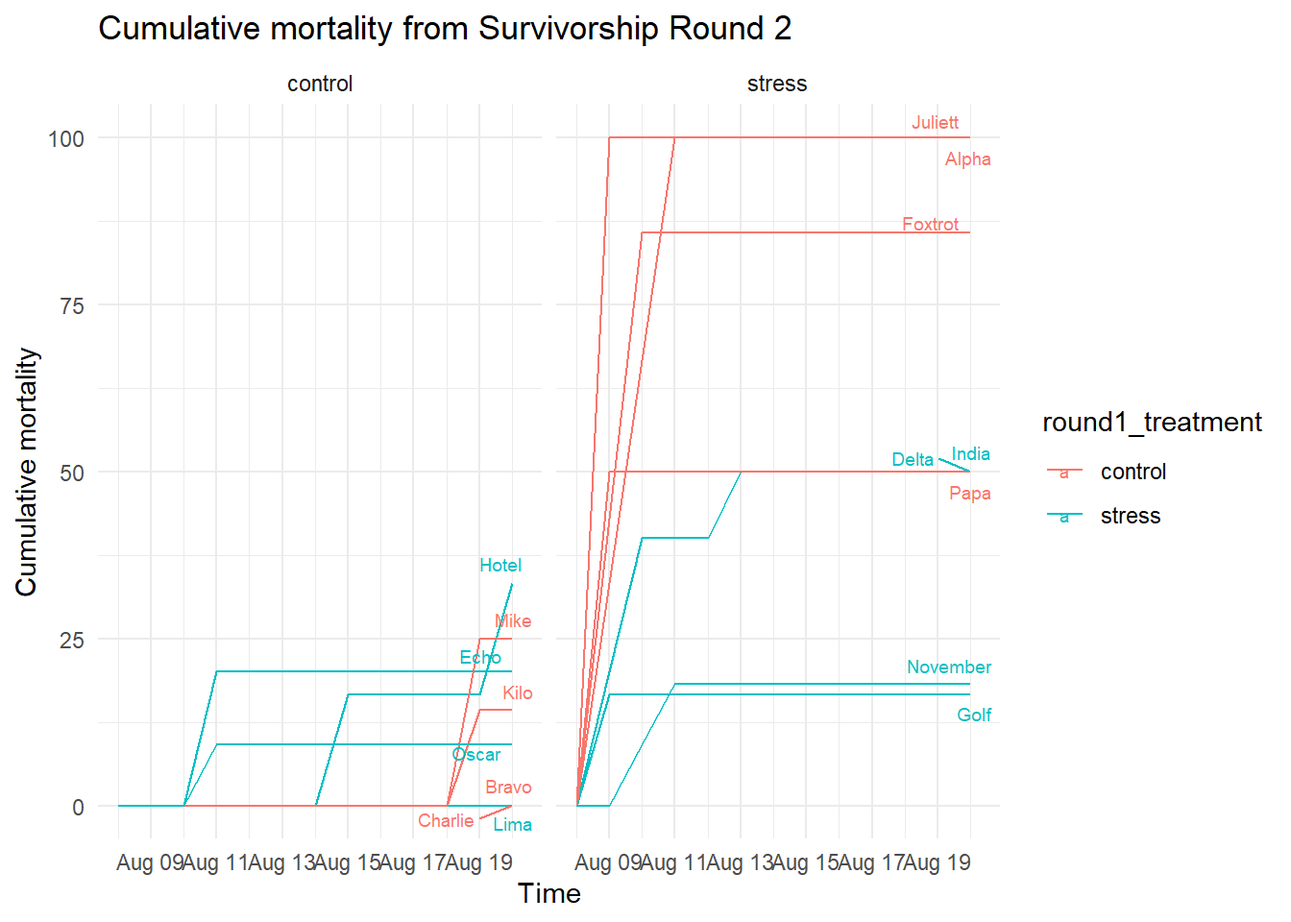
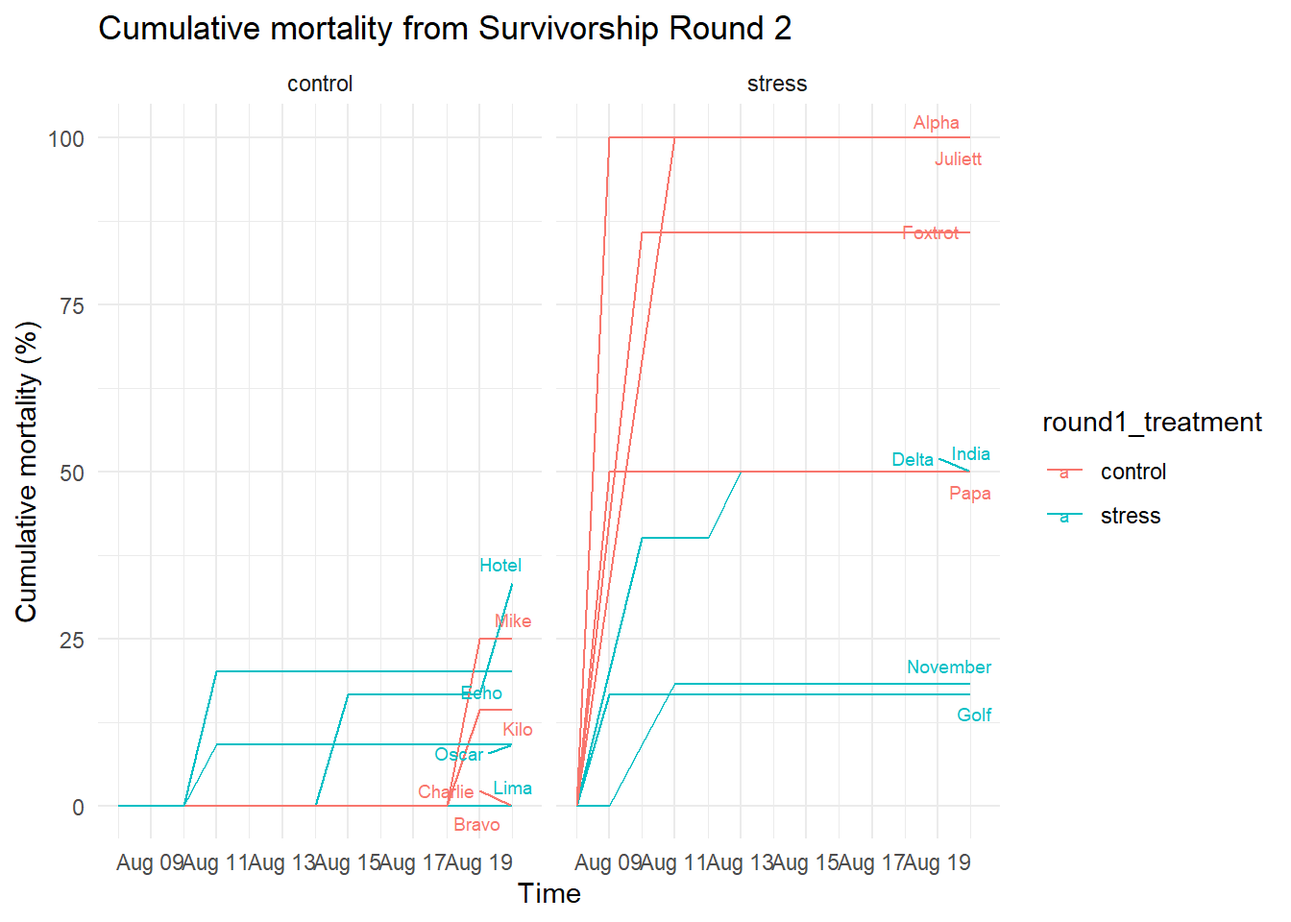
fix broken link, fold code chunk

diff --git a/docs/posts/projects/pacific_oyster/2024_08_09_diptrip_survivorship_round2.html b/docs/posts/projects/pacific_oyster/2024_08_09_diptrip_survivorship_round2.html
@@ -7,7 +7,7 @@
 <meta name="viewport" content="width=device-width, initial-scale=1.0, user-scalable=yes">
 
 <meta name="author" content="Kathleen Durkin">
-<meta name="dcterms.date" content="2024-08-21">
+<meta name="dcterms.date" content="2024-08-09">
 
 <title>Kathleen’s Lab Notebook - Dip/Trip Hardening, Survivorship Round 2</title>
 <style>
@@ -169,7 +169,7 @@ pre > code.sourceCode > span > a:first-child::before { text-decoration: underlin
       <div>
       <div class="quarto-title-meta-heading">Published</div>
       <div class="quarto-title-meta-contents">
-        <p class="date">August 21, 2024</p>
+        <p class="date">August 9, 2024</p>
       </div>
     </div>
     
@@ -196,8 +196,8 @@ pre > code.sourceCode > span > a:first-child::before { text-decoration: underlin
 
 
 
-<p>Second attempt at a survivorship test with my remaining hardened diploid and triploid oysters (see first survivorship test <a href="./2024_08_02_diptrip_survivorship_round2.qmd">here</a>). See all details and original data collection in physical lab notebook, digital copy of mortality and meta data <a href="https://docs.google.com/spreadsheets/d/1e0EcJ3Jrjq-a_IehlJsX7WaRoSG3tCUWKyWhY5yJfMs/edit?gid=0#gid=0">here</a>.</p>
-<p>As a reminder, I have diploid and triploid Pacific oysters that were hardened using 6 treatments of 35C for 4hours, over the course of 2 weeks. After 2 weeks of recovery they were brought back to FTR, acclimated, sampled, and used in a survivorship test of 42C Resazurin for 4hours. However, since I made the mistake of pooling all oysters in each treatment group, I compromised independence, making the results statistically meaningless. During this second attempt at a survivorship trial I’ll keep all individual oysters in separate containers, and I won’t be using Resazurin, since the ambient temp Resazurin groups in the first surivorship test still saw high mortality. For the purposes of this second survivorship test, survivorship round 1 will essentially be treated like an additional hardening treatment.</p>
+<p>Second attempt at a survivorship test with my remaining hardened diploid and triploid oysters (see first survivorship test <a href="../../../posts/projects/pacific_oyster/2024_08_02_diptrip_survivorship_round1.html">here</a>). See all details and original data collection in physical lab notebook, digital copy of mortality and meta data <a href="https://docs.google.com/spreadsheets/d/1e0EcJ3Jrjq-a_IehlJsX7WaRoSG3tCUWKyWhY5yJfMs/edit?gid=0#gid=0">here</a>.</p>
+<p>As a reminder, I have diploid and triploid Pacific oysters that were hardened using 6 treatments of 35C for 4hours, over the course of 2 weeks. After 2 weeks of recovery they were brought back to FTR, acclimated, sampled, and used in a survivorship test of 42C Resazurin for 4hours. However, since I made the mistake of pooling all oysters in each treatment group, I compromised independence, making the results statistically meaningless. During this second attempt at a survivorship trial I’ll keep all individual oysters in separate containers, and I won’t be using Resazurin, since the ambient temp Resazurin groups in the first survivorship test still saw high mortality. For the purposes of this second survivorship test, survivorship round 1 will essentially be treated like an additional hardening treatment.</p>
 <section id="survivorship-round-2-protocol" class="level2">
 <h2 class="anchored" data-anchor-id="survivorship-round-2-protocol">Survivorship Round 2 Protocol</h2>
 <ol type="1">
@@ -205,18 +205,18 @@ pre > code.sourceCode > span > a:first-child::before { text-decoration: underlin
 <li><p>Evenly split the remaining oysters in all survivorship round 1 groups into two even groups, maintaining size distributions. Assigned a randomly selected label to each group. Each oyster will be individually labelled with the alphanumeric of GroupLabel##.</p>
 <table class="table">
 <colgroup>
-<col style="width: 33%">
-<col style="width: 21%">
-<col style="width: 21%">
-<col style="width: 14%">
-<col style="width: 9%">
+<col style="width: 30%">
+<col style="width: 24%">
+<col style="width: 24%">
+<col style="width: 12%">
+<col style="width: 8%">
 </colgroup>
 <thead>
 <tr class="header">
 <th>Original hardening bag</th>
-<th>Round 1 group</th>
-<th>Round 2 group</th>
-<th>Labl</th>
+<th>Round 1 treatment</th>
+<th>Round 2 treatment</th>
+<th>Label</th>
 <th>Count</th>
 </tr>
 </thead>
@@ -352,22 +352,16 @@ pre > code.sourceCode > span > a:first-child::before { text-decoration: underlin
 <li><p>The original hardening was performed at too low a temperature to see an effect at 42C stress. The original hardening was done at 35C, while survivorship round 1 was at 42C, the same temperature the oysters then experienced during this survivorship round. My brief <a href="./2024_06_20_experimental_design_questions">review</a> of other papers that attempted hardening in bivalves did suggest that hardening was most effective when conditions were similar to those the organism would experience during an extreme stress event post-hardening.</p></li>
 </ol>
 <div class="cell">
+<details>
+<summary>Code</summary>
 <div class="sourceCode cell-code" id="cb1"><pre class="sourceCode r code-with-copy"><code class="sourceCode r"><span id="cb1-1"><a href="#cb1-1" aria-hidden="true" tabindex="-1"></a><span class="do">#####################</span></span>
 <span id="cb1-2"><a href="#cb1-2" aria-hidden="true" tabindex="-1"></a><span class="do">### Load Packages </span><span class="al">###</span></span>
 <span id="cb1-3"><a href="#cb1-3" aria-hidden="true" tabindex="-1"></a><span class="do">#####################</span></span>
 <span id="cb1-4"><a href="#cb1-4" aria-hidden="true" tabindex="-1"></a></span>
-<span id="cb1-5"><a href="#cb1-5" aria-hidden="true" tabindex="-1"></a><span class="fu">library</span>(ggplot2)</span></code><button title="Copy to Clipboard" class="code-copy-button"><i class="bi"></i></button></pre></div>
-<div class="cell-output cell-output-stderr">
-<pre><code>Warning: package 'ggplot2' was built under R version 4.2.3</code></pre>
-</div>
-<div class="sourceCode cell-code" id="cb3"><pre class="sourceCode r code-with-copy"><code class="sourceCode r"><span id="cb3-1"><a href="#cb3-1" aria-hidden="true" tabindex="-1"></a><span class="fu">library</span>(ggrepel)</span></code><button title="Copy to Clipboard" class="code-copy-button"><i class="bi"></i></button></pre></div>
-<div class="cell-output cell-output-stderr">
-<pre><code>Warning: package 'ggrepel' was built under R version 4.2.3</code></pre>
-</div>
-<div class="sourceCode cell-code" id="cb5"><pre class="sourceCode r code-with-copy"><code class="sourceCode r"><span id="cb5-1"><a href="#cb5-1" aria-hidden="true" tabindex="-1"></a><span class="fu">library</span>(dplyr)</span></code><button title="Copy to Clipboard" class="code-copy-button"><i class="bi"></i></button></pre></div>
-<div class="cell-output cell-output-stderr">
-<pre><code>Warning: package 'dplyr' was built under R version 4.2.3</code></pre>
-</div>
+<span id="cb1-5"><a href="#cb1-5" aria-hidden="true" tabindex="-1"></a><span class="fu">library</span>(ggplot2)</span>
+<span id="cb1-6"><a href="#cb1-6" aria-hidden="true" tabindex="-1"></a><span class="fu">library</span>(ggrepel)</span>
+<span id="cb1-7"><a href="#cb1-7" aria-hidden="true" tabindex="-1"></a><span class="fu">library</span>(dplyr)</span></code><button title="Copy to Clipboard" class="code-copy-button"><i class="bi"></i></button></pre></div>
+</details>
 <div class="cell-output cell-output-stderr">
 <pre><code>
 Attaching package: 'dplyr'</code></pre>
@@ -382,88 +376,85 @@ Attaching package: 'dplyr'</code></pre>
 
     intersect, setdiff, setequal, union</code></pre>
 </div>
-<div class="sourceCode cell-code" id="cb10"><pre class="sourceCode r code-with-copy"><code class="sourceCode r"><span id="cb10-1"><a href="#cb10-1" aria-hidden="true" tabindex="-1"></a><span class="fu">library</span>(tidyr)</span></code><button title="Copy to Clipboard" class="code-copy-button"><i class="bi"></i></button></pre></div>
-<div class="cell-output cell-output-stderr">
-<pre><code>Warning: package 'tidyr' was built under R version 4.2.3</code></pre>
-</div>
-<div class="sourceCode cell-code" id="cb12"><pre class="sourceCode r code-with-copy"><code class="sourceCode r"><span id="cb12-1"><a href="#cb12-1" aria-hidden="true" tabindex="-1"></a><span class="do">#################</span></span>
-<span id="cb12-2"><a href="#cb12-2" aria-hidden="true" tabindex="-1"></a><span class="do">### Load Data </span><span class="al">###</span></span>
-<span id="cb12-3"><a href="#cb12-3" aria-hidden="true" tabindex="-1"></a><span class="do">#################</span></span>
-<span id="cb12-4"><a href="#cb12-4" aria-hidden="true" tabindex="-1"></a></span>
-<span id="cb12-5"><a href="#cb12-5" aria-hidden="true" tabindex="-1"></a>round2 <span class="ot">&lt;-</span> <span class="fu">read.csv</span>(<span class="st">"../../../../../Data/Pacific_oysters/2024_08_22_Survivorship_Round2.csv"</span>)</span>
-<span id="cb12-6"><a href="#cb12-6" aria-hidden="true" tabindex="-1"></a></span>
-<span id="cb12-7"><a href="#cb12-7" aria-hidden="true" tabindex="-1"></a><span class="do">####################</span></span>
-<span id="cb12-8"><a href="#cb12-8" aria-hidden="true" tabindex="-1"></a><span class="do">### Data Munging </span><span class="al">###</span></span>
-<span id="cb12-9"><a href="#cb12-9" aria-hidden="true" tabindex="-1"></a><span class="do">####################</span></span>
-<span id="cb12-10"><a href="#cb12-10" aria-hidden="true" tabindex="-1"></a></span>
-<span id="cb12-11"><a href="#cb12-11" aria-hidden="true" tabindex="-1"></a><span class="co"># Convert mort_date to Date format</span></span>
-<span id="cb12-12"><a href="#cb12-12" aria-hidden="true" tabindex="-1"></a>round2 <span class="ot">&lt;-</span> round2 <span class="sc">%&gt;%</span></span>
-<span id="cb12-13"><a href="#cb12-13" aria-hidden="true" tabindex="-1"></a>  <span class="fu">mutate</span>(<span class="at">mort_date =</span> <span class="fu">as.Date</span>(mort_date, <span class="at">format=</span><span class="st">"%m/%d/%Y"</span>))</span>
-<span id="cb12-14"><a href="#cb12-14" aria-hidden="true" tabindex="-1"></a></span>
-<span id="cb12-15"><a href="#cb12-15" aria-hidden="true" tabindex="-1"></a><span class="co"># Calculate the total number of original samples in each group</span></span>
-<span id="cb12-16"><a href="#cb12-16" aria-hidden="true" tabindex="-1"></a>group_totals <span class="ot">&lt;-</span> round2 <span class="sc">%&gt;%</span></span>
-<span id="cb12-17"><a href="#cb12-17" aria-hidden="true" tabindex="-1"></a>  <span class="fu">group_by</span>(group) <span class="sc">%&gt;%</span></span>
-<span id="cb12-18"><a href="#cb12-18" aria-hidden="true" tabindex="-1"></a>  <span class="fu">summarise</span>(<span class="at">total_samples =</span> <span class="fu">n</span>(), <span class="at">.groups =</span> <span class="st">'drop'</span>)</span>
-<span id="cb12-19"><a href="#cb12-19" aria-hidden="true" tabindex="-1"></a></span>
-<span id="cb12-20"><a href="#cb12-20" aria-hidden="true" tabindex="-1"></a><span class="co"># Generate a sequence of dates covering the entire period</span></span>
-<span id="cb12-21"><a href="#cb12-21" aria-hidden="true" tabindex="-1"></a>date_seq <span class="ot">&lt;-</span> <span class="fu">seq</span>(<span class="fu">min</span>(round2<span class="sc">$</span>mort_date, <span class="at">na.rm =</span> <span class="cn">TRUE</span>), <span class="fu">max</span>(round2<span class="sc">$</span>mort_date, <span class="at">na.rm =</span> <span class="cn">TRUE</span>), <span class="at">by =</span> <span class="st">"day"</span>)</span>
-<span id="cb12-22"><a href="#cb12-22" aria-hidden="true" tabindex="-1"></a><span class="co"># Add the date before start of experiment, to show original 0% mortality</span></span>
-<span id="cb12-23"><a href="#cb12-23" aria-hidden="true" tabindex="-1"></a>date_seq <span class="ot">&lt;-</span> <span class="fu">c</span>(<span class="fu">as.Date</span>(<span class="st">"2024-08-08"</span>), date_seq)</span>
-<span id="cb12-24"><a href="#cb12-24" aria-hidden="true" tabindex="-1"></a></span>
-<span id="cb12-25"><a href="#cb12-25" aria-hidden="true" tabindex="-1"></a><span class="co"># Create a data frame with all combinations of treatment group and date</span></span>
-<span id="cb12-26"><a href="#cb12-26" aria-hidden="true" tabindex="-1"></a>round2_full <span class="ot">&lt;-</span> <span class="fu">expand.grid</span>(<span class="at">group =</span> <span class="fu">unique</span>(round2<span class="sc">$</span>group), </span>
-<span id="cb12-27"><a href="#cb12-27" aria-hidden="true" tabindex="-1"></a>                           <span class="at">date =</span> date_seq)</span>
-<span id="cb12-28"><a href="#cb12-28" aria-hidden="true" tabindex="-1"></a></span>
-<span id="cb12-29"><a href="#cb12-29" aria-hidden="true" tabindex="-1"></a><span class="co"># Aggregate the data by group and date to get daily death counts</span></span>
-<span id="cb12-30"><a href="#cb12-30" aria-hidden="true" tabindex="-1"></a>round2_daily <span class="ot">&lt;-</span> round2 <span class="sc">%&gt;%</span></span>
-<span id="cb12-31"><a href="#cb12-31" aria-hidden="true" tabindex="-1"></a>  <span class="fu">group_by</span>(group, mort_date) <span class="sc">%&gt;%</span></span>
-<span id="cb12-32"><a href="#cb12-32" aria-hidden="true" tabindex="-1"></a>  <span class="fu">summarise</span>(<span class="at">deaths =</span> <span class="fu">n</span>(), <span class="at">.groups =</span> <span class="st">'drop'</span>) <span class="sc">%&gt;%</span></span>
-<span id="cb12-33"><a href="#cb12-33" aria-hidden="true" tabindex="-1"></a>  <span class="fu">rename</span>(<span class="at">date =</span> mort_date)</span>
-<span id="cb12-34"><a href="#cb12-34" aria-hidden="true" tabindex="-1"></a></span>
-<span id="cb12-35"><a href="#cb12-35" aria-hidden="true" tabindex="-1"></a><span class="co"># Join the aggregated daily deaths with the full date range</span></span>
-<span id="cb12-36"><a href="#cb12-36" aria-hidden="true" tabindex="-1"></a>round2_cumulative <span class="ot">&lt;-</span> round2_full <span class="sc">%&gt;%</span></span>
-<span id="cb12-37"><a href="#cb12-37" aria-hidden="true" tabindex="-1"></a>  <span class="fu">left_join</span>(round2_daily, <span class="at">by =</span> <span class="fu">c</span>(<span class="st">"group"</span>, <span class="st">"date"</span>)) <span class="sc">%&gt;%</span></span>
-<span id="cb12-38"><a href="#cb12-38" aria-hidden="true" tabindex="-1"></a>  <span class="fu">mutate</span>(<span class="at">deaths =</span> <span class="fu">ifelse</span>(<span class="fu">is.na</span>(deaths), <span class="dv">0</span>, deaths)) <span class="sc">%&gt;%</span>  <span class="co"># Replace NA with 0 for days with no deaths</span></span>
-<span id="cb12-39"><a href="#cb12-39" aria-hidden="true" tabindex="-1"></a>  <span class="fu">group_by</span>(group) <span class="sc">%&gt;%</span></span>
-<span id="cb12-40"><a href="#cb12-40" aria-hidden="true" tabindex="-1"></a>  <span class="fu">arrange</span>(date) <span class="sc">%&gt;%</span></span>
-<span id="cb12-41"><a href="#cb12-41" aria-hidden="true" tabindex="-1"></a>  <span class="fu">mutate</span>(<span class="at">cumulative_deaths =</span> <span class="fu">cumsum</span>(deaths)) <span class="sc">%&gt;%</span></span>
-<span id="cb12-42"><a href="#cb12-42" aria-hidden="true" tabindex="-1"></a>  <span class="fu">ungroup</span>()</span>
-<span id="cb12-43"><a href="#cb12-43" aria-hidden="true" tabindex="-1"></a></span>
-<span id="cb12-44"><a href="#cb12-44" aria-hidden="true" tabindex="-1"></a><span class="co"># Join with group totals to calculate cumulative deaths as a percentage</span></span>
-<span id="cb12-45"><a href="#cb12-45" aria-hidden="true" tabindex="-1"></a>round2_cumulative <span class="ot">&lt;-</span> round2_cumulative <span class="sc">%&gt;%</span></span>
-<span id="cb12-46"><a href="#cb12-46" aria-hidden="true" tabindex="-1"></a>  <span class="fu">left_join</span>(group_totals, <span class="at">by =</span> <span class="st">"group"</span>) <span class="sc">%&gt;%</span></span>
-<span id="cb12-47"><a href="#cb12-47" aria-hidden="true" tabindex="-1"></a>  <span class="fu">mutate</span>(<span class="at">cumulative_death_percentage =</span> (cumulative_deaths <span class="sc">/</span> total_samples) <span class="sc">*</span> <span class="dv">100</span>)</span>
-<span id="cb12-48"><a href="#cb12-48" aria-hidden="true" tabindex="-1"></a></span>
-<span id="cb12-49"><a href="#cb12-49" aria-hidden="true" tabindex="-1"></a><span class="co"># retrieve metadata associated with groups</span></span>
-<span id="cb12-50"><a href="#cb12-50" aria-hidden="true" tabindex="-1"></a>metadata <span class="ot">&lt;-</span> round2 <span class="sc">%&gt;%</span></span>
-<span id="cb12-51"><a href="#cb12-51" aria-hidden="true" tabindex="-1"></a>  <span class="fu">select</span>(group, cattle_tag, round1_treatment, round2_treatment) <span class="sc">%&gt;%</span></span>
-<span id="cb12-52"><a href="#cb12-52" aria-hidden="true" tabindex="-1"></a>  <span class="fu">distinct</span>()</span>
-<span id="cb12-53"><a href="#cb12-53" aria-hidden="true" tabindex="-1"></a></span>
-<span id="cb12-54"><a href="#cb12-54" aria-hidden="true" tabindex="-1"></a>round2_cumulative_metadata <span class="ot">&lt;-</span> round2_cumulative <span class="sc">%&gt;%</span></span>
-<span id="cb12-55"><a href="#cb12-55" aria-hidden="true" tabindex="-1"></a>  <span class="fu">left_join</span>(metadata, <span class="at">by =</span> <span class="st">"group"</span>)</span>
-<span id="cb12-56"><a href="#cb12-56" aria-hidden="true" tabindex="-1"></a></span>
-<span id="cb12-57"><a href="#cb12-57" aria-hidden="true" tabindex="-1"></a><span class="do">################</span></span>
-<span id="cb12-58"><a href="#cb12-58" aria-hidden="true" tabindex="-1"></a><span class="do">### Plot Data ##</span></span>
-<span id="cb12-59"><a href="#cb12-59" aria-hidden="true" tabindex="-1"></a><span class="do">################</span></span>
-<span id="cb12-60"><a href="#cb12-60" aria-hidden="true" tabindex="-1"></a></span>
-<span id="cb12-61"><a href="#cb12-61" aria-hidden="true" tabindex="-1"></a>labels_df <span class="ot">&lt;-</span> round2_cumulative_metadata <span class="sc">%&gt;%</span></span>
-<span id="cb12-62"><a href="#cb12-62" aria-hidden="true" tabindex="-1"></a>  <span class="fu">group_by</span>(group) <span class="sc">%&gt;%</span></span>
-<span id="cb12-63"><a href="#cb12-63" aria-hidden="true" tabindex="-1"></a>  <span class="fu">filter</span>(date <span class="sc">==</span> <span class="fu">max</span>(date)) <span class="sc">%&gt;%</span></span>
-<span id="cb12-64"><a href="#cb12-64" aria-hidden="true" tabindex="-1"></a>  <span class="fu">ungroup</span>()</span>
-<span id="cb12-65"><a href="#cb12-65" aria-hidden="true" tabindex="-1"></a></span>
-<span id="cb12-66"><a href="#cb12-66" aria-hidden="true" tabindex="-1"></a><span class="fu">ggplot</span>(round2_cumulative_metadata, <span class="fu">aes</span>(<span class="at">x =</span> date, <span class="at">y =</span> cumulative_death_percentage, <span class="at">group =</span> group, <span class="at">color =</span> round1_treatment)) <span class="sc">+</span></span>
-<span id="cb12-67"><a href="#cb12-67" aria-hidden="true" tabindex="-1"></a>  <span class="co">#geom_point() +</span></span>
-<span id="cb12-68"><a href="#cb12-68" aria-hidden="true" tabindex="-1"></a>  <span class="fu">geom_line</span>() <span class="sc">+</span></span>
-<span id="cb12-69"><a href="#cb12-69" aria-hidden="true" tabindex="-1"></a>  <span class="fu">facet_wrap</span>(<span class="sc">~</span> round2_treatment) <span class="sc">+</span></span>
-<span id="cb12-70"><a href="#cb12-70" aria-hidden="true" tabindex="-1"></a>  <span class="fu">geom_text_repel</span>(<span class="at">data =</span> labels_df, <span class="fu">aes</span>(<span class="at">label =</span> group), <span class="at">size =</span> <span class="fl">2.5</span>, <span class="at">nudge_x =</span> <span class="fl">0.3</span>, <span class="at">check_overlap =</span> <span class="cn">TRUE</span>) <span class="sc">+</span></span>
-<span id="cb12-71"><a href="#cb12-71" aria-hidden="true" tabindex="-1"></a>  <span class="fu">labs</span>(<span class="at">title =</span> <span class="st">"Cumulative mortality from Survivorship Round 2"</span>,</span>
-<span id="cb12-72"><a href="#cb12-72" aria-hidden="true" tabindex="-1"></a>       <span class="at">x =</span> <span class="st">"Time"</span>,</span>
-<span id="cb12-73"><a href="#cb12-73" aria-hidden="true" tabindex="-1"></a>       <span class="at">y =</span> <span class="st">"Cumulative mortality"</span>) <span class="sc">+</span></span>
-<span id="cb12-74"><a href="#cb12-74" aria-hidden="true" tabindex="-1"></a>  <span class="fu">theme_minimal</span>()</span></code><button title="Copy to Clipboard" class="code-copy-button"><i class="bi"></i></button></pre></div>
-<div class="cell-output cell-output-stderr">
-<pre><code>Warning in geom_text_repel(data = labels_df, aes(label = group), size = 2.5, :
-Ignoring unknown parameters: `check_overlap`</code></pre>
-</div>
+<details>
+<summary>Code</summary>
+<div class="sourceCode cell-code" id="cb5"><pre class="sourceCode r code-with-copy"><code class="sourceCode r"><span id="cb5-1"><a href="#cb5-1" aria-hidden="true" tabindex="-1"></a><span class="fu">library</span>(tidyr)</span>
+<span id="cb5-2"><a href="#cb5-2" aria-hidden="true" tabindex="-1"></a></span>
+<span id="cb5-3"><a href="#cb5-3" aria-hidden="true" tabindex="-1"></a><span class="do">#################</span></span>
+<span id="cb5-4"><a href="#cb5-4" aria-hidden="true" tabindex="-1"></a><span class="do">### Load Data </span><span class="al">###</span></span>
+<span id="cb5-5"><a href="#cb5-5" aria-hidden="true" tabindex="-1"></a><span class="do">#################</span></span>
+<span id="cb5-6"><a href="#cb5-6" aria-hidden="true" tabindex="-1"></a></span>
+<span id="cb5-7"><a href="#cb5-7" aria-hidden="true" tabindex="-1"></a>round2 <span class="ot">&lt;-</span> <span class="fu">read.csv</span>(<span class="st">"../../../../../Data/Pacific_oysters/2024_08_22_Survivorship_Round2.csv"</span>)</span>
+<span id="cb5-8"><a href="#cb5-8" aria-hidden="true" tabindex="-1"></a></span>
+<span id="cb5-9"><a href="#cb5-9" aria-hidden="true" tabindex="-1"></a><span class="do">####################</span></span>
+<span id="cb5-10"><a href="#cb5-10" aria-hidden="true" tabindex="-1"></a><span class="do">### Data Munging </span><span class="al">###</span></span>
+<span id="cb5-11"><a href="#cb5-11" aria-hidden="true" tabindex="-1"></a><span class="do">####################</span></span>
+<span id="cb5-12"><a href="#cb5-12" aria-hidden="true" tabindex="-1"></a></span>
+<span id="cb5-13"><a href="#cb5-13" aria-hidden="true" tabindex="-1"></a><span class="co"># Convert mort_date to Date format</span></span>
+<span id="cb5-14"><a href="#cb5-14" aria-hidden="true" tabindex="-1"></a>round2 <span class="ot">&lt;-</span> round2 <span class="sc">%&gt;%</span></span>
+<span id="cb5-15"><a href="#cb5-15" aria-hidden="true" tabindex="-1"></a>  <span class="fu">mutate</span>(<span class="at">mort_date =</span> <span class="fu">as.Date</span>(mort_date, <span class="at">format=</span><span class="st">"%m/%d/%Y"</span>))</span>
+<span id="cb5-16"><a href="#cb5-16" aria-hidden="true" tabindex="-1"></a></span>
+<span id="cb5-17"><a href="#cb5-17" aria-hidden="true" tabindex="-1"></a><span class="co"># Calculate the total number of original samples in each group</span></span>
+<span id="cb5-18"><a href="#cb5-18" aria-hidden="true" tabindex="-1"></a>group_totals <span class="ot">&lt;-</span> round2 <span class="sc">%&gt;%</span></span>
+<span id="cb5-19"><a href="#cb5-19" aria-hidden="true" tabindex="-1"></a>  <span class="fu">group_by</span>(group) <span class="sc">%&gt;%</span></span>
+<span id="cb5-20"><a href="#cb5-20" aria-hidden="true" tabindex="-1"></a>  <span class="fu">summarise</span>(<span class="at">total_samples =</span> <span class="fu">n</span>(), <span class="at">.groups =</span> <span class="st">'drop'</span>)</span>
+<span id="cb5-21"><a href="#cb5-21" aria-hidden="true" tabindex="-1"></a></span>
+<span id="cb5-22"><a href="#cb5-22" aria-hidden="true" tabindex="-1"></a><span class="co"># Generate a sequence of dates covering the entire period</span></span>
+<span id="cb5-23"><a href="#cb5-23" aria-hidden="true" tabindex="-1"></a>date_seq <span class="ot">&lt;-</span> <span class="fu">seq</span>(<span class="fu">min</span>(round2<span class="sc">$</span>mort_date, <span class="at">na.rm =</span> <span class="cn">TRUE</span>), <span class="fu">max</span>(round2<span class="sc">$</span>mort_date, <span class="at">na.rm =</span> <span class="cn">TRUE</span>), <span class="at">by =</span> <span class="st">"day"</span>)</span>
+<span id="cb5-24"><a href="#cb5-24" aria-hidden="true" tabindex="-1"></a><span class="co"># Add the date before start of experiment, to show original 0% mortality</span></span>
+<span id="cb5-25"><a href="#cb5-25" aria-hidden="true" tabindex="-1"></a>date_seq <span class="ot">&lt;-</span> <span class="fu">c</span>(<span class="fu">as.Date</span>(<span class="st">"2024-08-08"</span>), date_seq)</span>
+<span id="cb5-26"><a href="#cb5-26" aria-hidden="true" tabindex="-1"></a></span>
+<span id="cb5-27"><a href="#cb5-27" aria-hidden="true" tabindex="-1"></a><span class="co"># Create a data frame with all combinations of treatment group and date</span></span>
+<span id="cb5-28"><a href="#cb5-28" aria-hidden="true" tabindex="-1"></a>round2_full <span class="ot">&lt;-</span> <span class="fu">expand.grid</span>(<span class="at">group =</span> <span class="fu">unique</span>(round2<span class="sc">$</span>group), </span>
+<span id="cb5-29"><a href="#cb5-29" aria-hidden="true" tabindex="-1"></a>                           <span class="at">date =</span> date_seq)</span>
+<span id="cb5-30"><a href="#cb5-30" aria-hidden="true" tabindex="-1"></a></span>
+<span id="cb5-31"><a href="#cb5-31" aria-hidden="true" tabindex="-1"></a><span class="co"># Aggregate the data by group and date to get daily death counts</span></span>
+<span id="cb5-32"><a href="#cb5-32" aria-hidden="true" tabindex="-1"></a>round2_daily <span class="ot">&lt;-</span> round2 <span class="sc">%&gt;%</span></span>
+<span id="cb5-33"><a href="#cb5-33" aria-hidden="true" tabindex="-1"></a>  <span class="fu">group_by</span>(group, mort_date) <span class="sc">%&gt;%</span></span>
+<span id="cb5-34"><a href="#cb5-34" aria-hidden="true" tabindex="-1"></a>  <span class="fu">summarise</span>(<span class="at">deaths =</span> <span class="fu">n</span>(), <span class="at">.groups =</span> <span class="st">'drop'</span>) <span class="sc">%&gt;%</span></span>
+<span id="cb5-35"><a href="#cb5-35" aria-hidden="true" tabindex="-1"></a>  <span class="fu">rename</span>(<span class="at">date =</span> mort_date)</span>
+<span id="cb5-36"><a href="#cb5-36" aria-hidden="true" tabindex="-1"></a></span>
+<span id="cb5-37"><a href="#cb5-37" aria-hidden="true" tabindex="-1"></a><span class="co"># Join the aggregated daily deaths with the full date range</span></span>
+<span id="cb5-38"><a href="#cb5-38" aria-hidden="true" tabindex="-1"></a>round2_cumulative <span class="ot">&lt;-</span> round2_full <span class="sc">%&gt;%</span></span>
+<span id="cb5-39"><a href="#cb5-39" aria-hidden="true" tabindex="-1"></a>  <span class="fu">left_join</span>(round2_daily, <span class="at">by =</span> <span class="fu">c</span>(<span class="st">"group"</span>, <span class="st">"date"</span>)) <span class="sc">%&gt;%</span></span>
+<span id="cb5-40"><a href="#cb5-40" aria-hidden="true" tabindex="-1"></a>  <span class="fu">mutate</span>(<span class="at">deaths =</span> <span class="fu">ifelse</span>(<span class="fu">is.na</span>(deaths), <span class="dv">0</span>, deaths)) <span class="sc">%&gt;%</span>  <span class="co"># Replace NA with 0 for days with no deaths</span></span>
+<span id="cb5-41"><a href="#cb5-41" aria-hidden="true" tabindex="-1"></a>  <span class="fu">group_by</span>(group) <span class="sc">%&gt;%</span></span>
+<span id="cb5-42"><a href="#cb5-42" aria-hidden="true" tabindex="-1"></a>  <span class="fu">arrange</span>(date) <span class="sc">%&gt;%</span></span>
+<span id="cb5-43"><a href="#cb5-43" aria-hidden="true" tabindex="-1"></a>  <span class="fu">mutate</span>(<span class="at">cumulative_deaths =</span> <span class="fu">cumsum</span>(deaths)) <span class="sc">%&gt;%</span></span>
+<span id="cb5-44"><a href="#cb5-44" aria-hidden="true" tabindex="-1"></a>  <span class="fu">ungroup</span>()</span>
+<span id="cb5-45"><a href="#cb5-45" aria-hidden="true" tabindex="-1"></a></span>
+<span id="cb5-46"><a href="#cb5-46" aria-hidden="true" tabindex="-1"></a><span class="co"># Join with group totals to calculate cumulative deaths as a percentage</span></span>
+<span id="cb5-47"><a href="#cb5-47" aria-hidden="true" tabindex="-1"></a>round2_cumulative <span class="ot">&lt;-</span> round2_cumulative <span class="sc">%&gt;%</span></span>
+<span id="cb5-48"><a href="#cb5-48" aria-hidden="true" tabindex="-1"></a>  <span class="fu">left_join</span>(group_totals, <span class="at">by =</span> <span class="st">"group"</span>) <span class="sc">%&gt;%</span></span>
+<span id="cb5-49"><a href="#cb5-49" aria-hidden="true" tabindex="-1"></a>  <span class="fu">mutate</span>(<span class="at">cumulative_death_percentage =</span> (cumulative_deaths <span class="sc">/</span> total_samples) <span class="sc">*</span> <span class="dv">100</span>)</span>
+<span id="cb5-50"><a href="#cb5-50" aria-hidden="true" tabindex="-1"></a></span>
+<span id="cb5-51"><a href="#cb5-51" aria-hidden="true" tabindex="-1"></a><span class="co"># retrieve metadata associated with groups</span></span>
+<span id="cb5-52"><a href="#cb5-52" aria-hidden="true" tabindex="-1"></a>metadata <span class="ot">&lt;-</span> round2 <span class="sc">%&gt;%</span></span>
+<span id="cb5-53"><a href="#cb5-53" aria-hidden="true" tabindex="-1"></a>  <span class="fu">select</span>(group, cattle_tag, round1_treatment, round2_treatment) <span class="sc">%&gt;%</span></span>
+<span id="cb5-54"><a href="#cb5-54" aria-hidden="true" tabindex="-1"></a>  <span class="fu">distinct</span>()</span>
+<span id="cb5-55"><a href="#cb5-55" aria-hidden="true" tabindex="-1"></a></span>
+<span id="cb5-56"><a href="#cb5-56" aria-hidden="true" tabindex="-1"></a>round2_cumulative_metadata <span class="ot">&lt;-</span> round2_cumulative <span class="sc">%&gt;%</span></span>
+<span id="cb5-57"><a href="#cb5-57" aria-hidden="true" tabindex="-1"></a>  <span class="fu">left_join</span>(metadata, <span class="at">by =</span> <span class="st">"group"</span>)</span>
+<span id="cb5-58"><a href="#cb5-58" aria-hidden="true" tabindex="-1"></a></span>
+<span id="cb5-59"><a href="#cb5-59" aria-hidden="true" tabindex="-1"></a><span class="do">################</span></span>
+<span id="cb5-60"><a href="#cb5-60" aria-hidden="true" tabindex="-1"></a><span class="do">### Plot Data ##</span></span>
+<span id="cb5-61"><a href="#cb5-61" aria-hidden="true" tabindex="-1"></a><span class="do">################</span></span>
+<span id="cb5-62"><a href="#cb5-62" aria-hidden="true" tabindex="-1"></a></span>
+<span id="cb5-63"><a href="#cb5-63" aria-hidden="true" tabindex="-1"></a>labels_df <span class="ot">&lt;-</span> round2_cumulative_metadata <span class="sc">%&gt;%</span></span>
+<span id="cb5-64"><a href="#cb5-64" aria-hidden="true" tabindex="-1"></a>  <span class="fu">group_by</span>(group) <span class="sc">%&gt;%</span></span>
+<span id="cb5-65"><a href="#cb5-65" aria-hidden="true" tabindex="-1"></a>  <span class="fu">filter</span>(date <span class="sc">==</span> <span class="fu">max</span>(date)) <span class="sc">%&gt;%</span></span>
+<span id="cb5-66"><a href="#cb5-66" aria-hidden="true" tabindex="-1"></a>  <span class="fu">ungroup</span>()</span>
+<span id="cb5-67"><a href="#cb5-67" aria-hidden="true" tabindex="-1"></a></span>
+<span id="cb5-68"><a href="#cb5-68" aria-hidden="true" tabindex="-1"></a><span class="fu">ggplot</span>(round2_cumulative_metadata, <span class="fu">aes</span>(<span class="at">x =</span> date, <span class="at">y =</span> cumulative_death_percentage, <span class="at">group =</span> group, <span class="at">color =</span> round1_treatment)) <span class="sc">+</span></span>
+<span id="cb5-69"><a href="#cb5-69" aria-hidden="true" tabindex="-1"></a>  <span class="co">#geom_point() +</span></span>
+<span id="cb5-70"><a href="#cb5-70" aria-hidden="true" tabindex="-1"></a>  <span class="fu">geom_line</span>() <span class="sc">+</span></span>
+<span id="cb5-71"><a href="#cb5-71" aria-hidden="true" tabindex="-1"></a>  <span class="fu">facet_wrap</span>(<span class="sc">~</span> round2_treatment) <span class="sc">+</span></span>
+<span id="cb5-72"><a href="#cb5-72" aria-hidden="true" tabindex="-1"></a>  <span class="fu">geom_text_repel</span>(<span class="at">data =</span> labels_df, <span class="fu">aes</span>(<span class="at">label =</span> group), <span class="at">size =</span> <span class="fl">2.5</span>, <span class="at">nudge_x =</span> <span class="fl">0.3</span>, <span class="at">check_overlap =</span> <span class="cn">TRUE</span>) <span class="sc">+</span></span>
+<span id="cb5-73"><a href="#cb5-73" aria-hidden="true" tabindex="-1"></a>  <span class="fu">labs</span>(<span class="at">title =</span> <span class="st">"Cumulative mortality from Survivorship Round 2"</span>,</span>
+<span id="cb5-74"><a href="#cb5-74" aria-hidden="true" tabindex="-1"></a>       <span class="at">x =</span> <span class="st">"Time"</span>,</span>
+<span id="cb5-75"><a href="#cb5-75" aria-hidden="true" tabindex="-1"></a>       <span class="at">y =</span> <span class="st">"Cumulative mortality (%)"</span>) <span class="sc">+</span></span>
+<span id="cb5-76"><a href="#cb5-76" aria-hidden="true" tabindex="-1"></a>  <span class="fu">theme_minimal</span>()</span></code><button title="Copy to Clipboard" class="code-copy-button"><i class="bi"></i></button></pre></div>
+</details>
 <div class="cell-output-display">
 <p><img src="2024_08_09_diptrip_survivorship_round2_files/figure-html/unnamed-chunk-1-1.png" class="img-fluid" width="672"></p>
 </div>

diff --git a/docs/posts/projects/pacific_oyster.html b/docs/posts/projects/pacific_oyster.html
@@ -209,7 +209,7 @@ Reading Time
 </tr>
 </thead>
 <tbody class="list">
-<tr data-index="0" data-categories="pacific_oyster" data-listing-date-sort="1723186800000" data-listing-file-modified-sort="1724355721870" data-listing-date-modified-sort="NaN" data-listing-reading-time-sort="10" data-listing-title-sort="Dip/Trip Hardening, Survivorship Round 2" data-listing-filename-sort="2024_08_09_diptrip_survivorship_round2.qmd">
+<tr data-index="0" data-categories="pacific_oyster" data-listing-date-sort="1723186800000" data-listing-file-modified-sort="1724357143187" data-listing-date-modified-sort="NaN" data-listing-reading-time-sort="10" data-listing-title-sort="Dip/Trip Hardening, Survivorship Round 2" data-listing-filename-sort="2024_08_09_diptrip_survivorship_round2.qmd">
 <td>
 <span class="listing-image"><p class="card-img-top"><img src="pacific_oyster\2024_08_09_diptrip_survivorship_round2_files\figure-html\unnamed-chunk-1-1.png" style="height: 40px;"  class="thumbnail-image card-img"/></p></span>
 </td>
